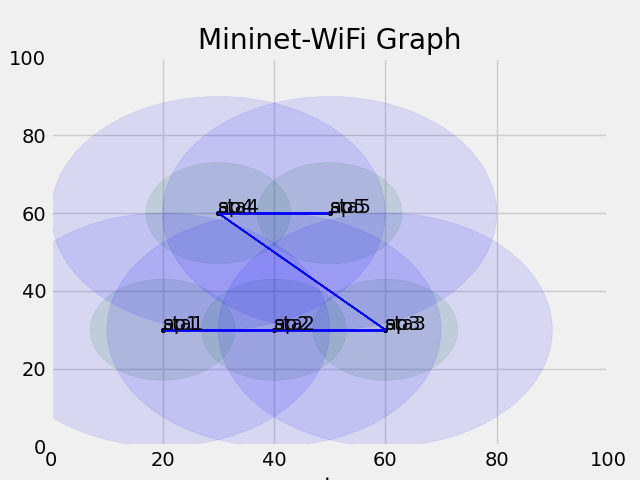
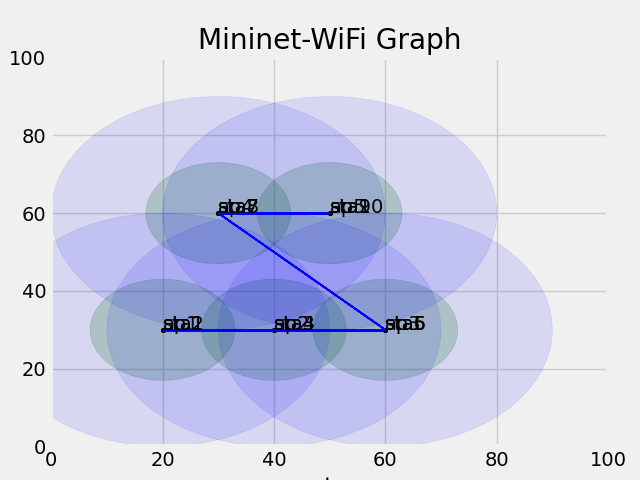
minor fix

diff --git a/Topologies/Uniform/topology.py b/Topologies/Uniform/topology.py
@@ -9,8 +9,8 @@ from mn_wifi.node import OVSKernelAP
 from mn_wifi.link import wmediumd
 from mn_wifi.wmediumdConnector import interference
 
-N_HOSTS = 5  # Número de hosts
-MAPPINGS_FILE_PATH = "mappings_uniform.txt"  # Caminho para o arquivo de mapeamento
+N_HOSTS = 10  # Número de hosts
+MAPPINGS_FILE_PATH = "mappings.txt"  # Caminho para o arquivo de mapeamento
 
 class Host:
     """Classe para representar um host na topologia."""
@@ -63,13 +63,13 @@ def topology():
     with open(MAPPINGS_FILE_PATH, "w") as f:
         for i, host in enumerate(hosts_info):
             # Posiciona as estações próximas aos APs
-            if i == 0:
+            if i == 0 or i == 1:
                 sta_x, sta_y = 20, 30  # Próximo ao AP1
-            elif i == 1:
+            elif i == 2 or i == 3:
                 sta_x, sta_y = 40, 30  # Próximo ao AP2
-            elif i == 2:
+            elif i == 4 or i == 5:
                 sta_x, sta_y = 60, 30  # Próximo ao AP3
-            elif i == 3:
+            elif i == 6 or i == 7:
                 sta_x, sta_y = 30, 60  # Próximo ao AP4
             else:
                 sta_x, sta_y = 50, 60  # Próximo ao AP5

diff --git a/Topologies/High Total/generate_traffic_large.py b/Topologies/High Total/generate_traffic_large.py
@@ -13,7 +13,7 @@ low_traffic = range(11, 16)  # Estações 11 a 15 (tráfego baixo)
 
 # Gera tráfego para o grupo de tráfego alto
 for i in high_traffic:
-    os.system(f'./m sta{i} iperf -c 10.0.0.1 -u -p 8 -b 10m -t 120 &')  # 10 Mbps
+    os.system(f'./m sta{i} iperf -c 10.0.0.1 -u -p 8 -b 8m -t 120 &')  # 10 Mbps
 
 # Gera tráfego para o grupo de tráfego médio
 for i in medium_traffic:

diff --git a/Topologies/Low Density/generate_traffic.py b/Topologies/Low Density/generate_traffic.py
@@ -13,7 +13,7 @@ low_traffic = range(11, 16)  # Estações 11 a 15 (tráfego baixo)
 
 # Gera tráfego para o grupo de tráfego alto
 for i in high_traffic:
-    os.system(f'./m sta{i} iperf -c 10.0.0.1 -u -p 8 -b 10m -t 120 &')  # 10 Mbps
+    os.system(f'./m sta{i} iperf -c 10.0.0.1 -u -p 8 -b 8m -t 120 &')  # 10 Mbps
 
 # Gera tráfego para o grupo de tráfego médio
 for i in medium_traffic:

diff --git a/Topologies/High Density/generate_traffic.py b/Topologies/High Density/generate_traffic.py
@@ -13,7 +13,7 @@ low_traffic = range(7, 10)  # Estações 7 a 9 (tráfego baixo)
 
 # Gera tráfego para o grupo de tráfego alto
 for i in high_traffic:
-    os.system(f'./m sta{i} iperf -c 10.0.0.1 -u -p 8 -b 10m -t 120 &')  # 10 Mbps
+    os.system(f'./m sta{i} iperf -c 10.0.0.1 -u -p 8 -b 8m -t 120 &')  # 10 Mbps
 
 # Gera tráfego para o grupo de tráfego médio
 for i in medium_traffic:

diff --git a/Topologies/Uniform/generate_traffic.py b/Topologies/Uniform/generate_traffic.py
@@ -13,7 +13,7 @@ low_traffic = range(5, 6)  # Estação 5 (tráfego baixo)
 
 # Gera tráfego para o grupo de tráfego alto
 for i in high_traffic:
-    os.system(f'./m sta{i} iperf -c 10.0.0.1 -u -p 8 -b 10m -t 120 &')  # 10 Mbps
+    os.system(f'./m sta{i} iperf -c 10.0.0.1 -u -p 8 -b 8m -t 120 &')  # 10 Mbps
 
 # Gera tráfego para o grupo de tráfego médio
 for i in medium_traffic:

diff --git a/Topologies/Default/generate_traffic.py b/Topologies/Default/generate_traffic.py
@@ -9,7 +9,7 @@ hosts = [1, 2, 3, 4]  # sta1, sta2, sta3, sta4
 
 # Gera tráfego para cada host
 for i in hosts:
-    os.system(f'./m sta{i} iperf -c 10.0.0.1 -u -p 8 -b 10m -t 120 &')  # Tráfego de 10 Mbps por host
+    os.system(f'./m sta{i} iperf -c 10.0.0.1 -u -p 8 -b 8m -t 120 &')  # Tráfego de 10 Mbps por host
 
 # Aguarda o término do tráfego
 time.sleep(130)

diff --git a/Topologies/Assymetric/app_nc.py b/Topologies/Assymetric/app_nc.py
@@ -13,8 +13,7 @@ from ryu.lib import hub
 import redis
 import pickle
 
-STATION_THRESHOLD = 2
-# STATION_THRESHOLD = 2
+STATION_THRESHOLD = 8
 SIGNAL_THRESHOLD = -90 # dBm
 
 mappings_path = "mappings.txt"

diff --git a/Topologies/High Total/app_nc.py b/Topologies/High Total/app_nc.py
@@ -13,8 +13,7 @@ from ryu.lib import hub
 import redis
 import pickle
 
-STATION_THRESHOLD = 2
-# STATION_THRESHOLD = 2
+STATION_THRESHOLD = 4
 SIGNAL_THRESHOLD = -90 # dBm
 
 mappings_path = "mappings.txt"

diff --git a/Topologies/Low Density/app_nc.py b/Topologies/Low Density/app_nc.py
@@ -13,8 +13,7 @@ from ryu.lib import hub
 import redis
 import pickle
 
-STATION_THRESHOLD = 2
-# STATION_THRESHOLD = 2
+STATION_THRESHOLD = 6
 SIGNAL_THRESHOLD = -90 # dBm
 
 mappings_path = "mappings.txt"

diff --git a/Topologies/Default/app_nc.py b/Topologies/Default/app_nc.py
@@ -14,7 +14,6 @@ import redis
 import pickle
 
 STATION_THRESHOLD = 2
-# STATION_THRESHOLD = 2
 SIGNAL_THRESHOLD = -90 # dBm
 
 mappings_path = "mappings.txt"

diff --git a/Topologies/High Density/app_nc.py b/Topologies/High Density/app_nc.py
@@ -14,7 +14,6 @@ import redis
 import pickle
 
 STATION_THRESHOLD = 2
-# STATION_THRESHOLD = 2
 SIGNAL_THRESHOLD = -90 # dBm
 
 mappings_path = "mappings.txt"

diff --git a/Topologies/Uniform/app_nc.py b/Topologies/Uniform/app_nc.py
@@ -14,7 +14,6 @@ import redis
 import pickle
 
 STATION_THRESHOLD = 2
-# STATION_THRESHOLD = 2
 SIGNAL_THRESHOLD = -90 # dBm
 
 mappings_path = "mappings.txt"
